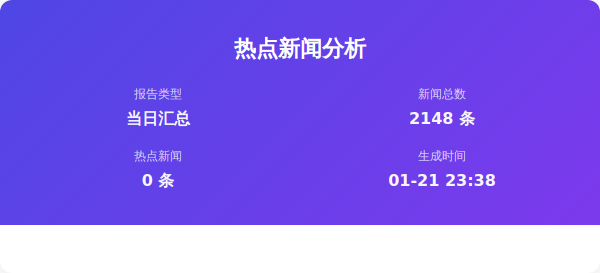
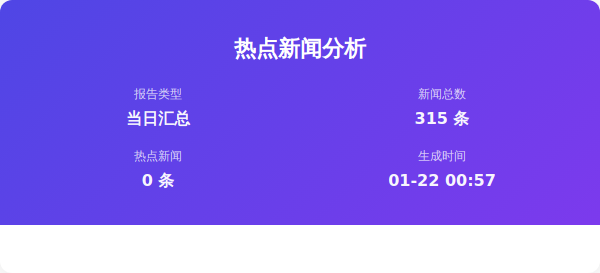
Auto update by GitHub Actions at Thu Jan 22 00:57:27 CST 2026

Changed region(s): [[0.66, 0.4103, 0.81, 0.4689], [0.72, 0.6447, 0.84, 0.674]]

diff --git a/output/2026年01月22日/html/00时57分.html b/output/2026年01月22日/html/00时57分.html
@@ -353,11 +353,11 @@
                 <div class="header-info">
                     <div class="info-item">
                         <span class="info-label">报告类型</span>
-                        <span class="info-value">当日汇总</span>
+                        <span class="info-value">实时分析</span>
                     </div>
                     <div class="info-item">
                         <span class="info-label">新闻总数</span>
-                        <span class="info-value">315 条</span>
+                        <span class="info-value">255 条</span>
                     </div>
                     <div class="info-item">
                         <span class="info-label">热点新闻</span>
